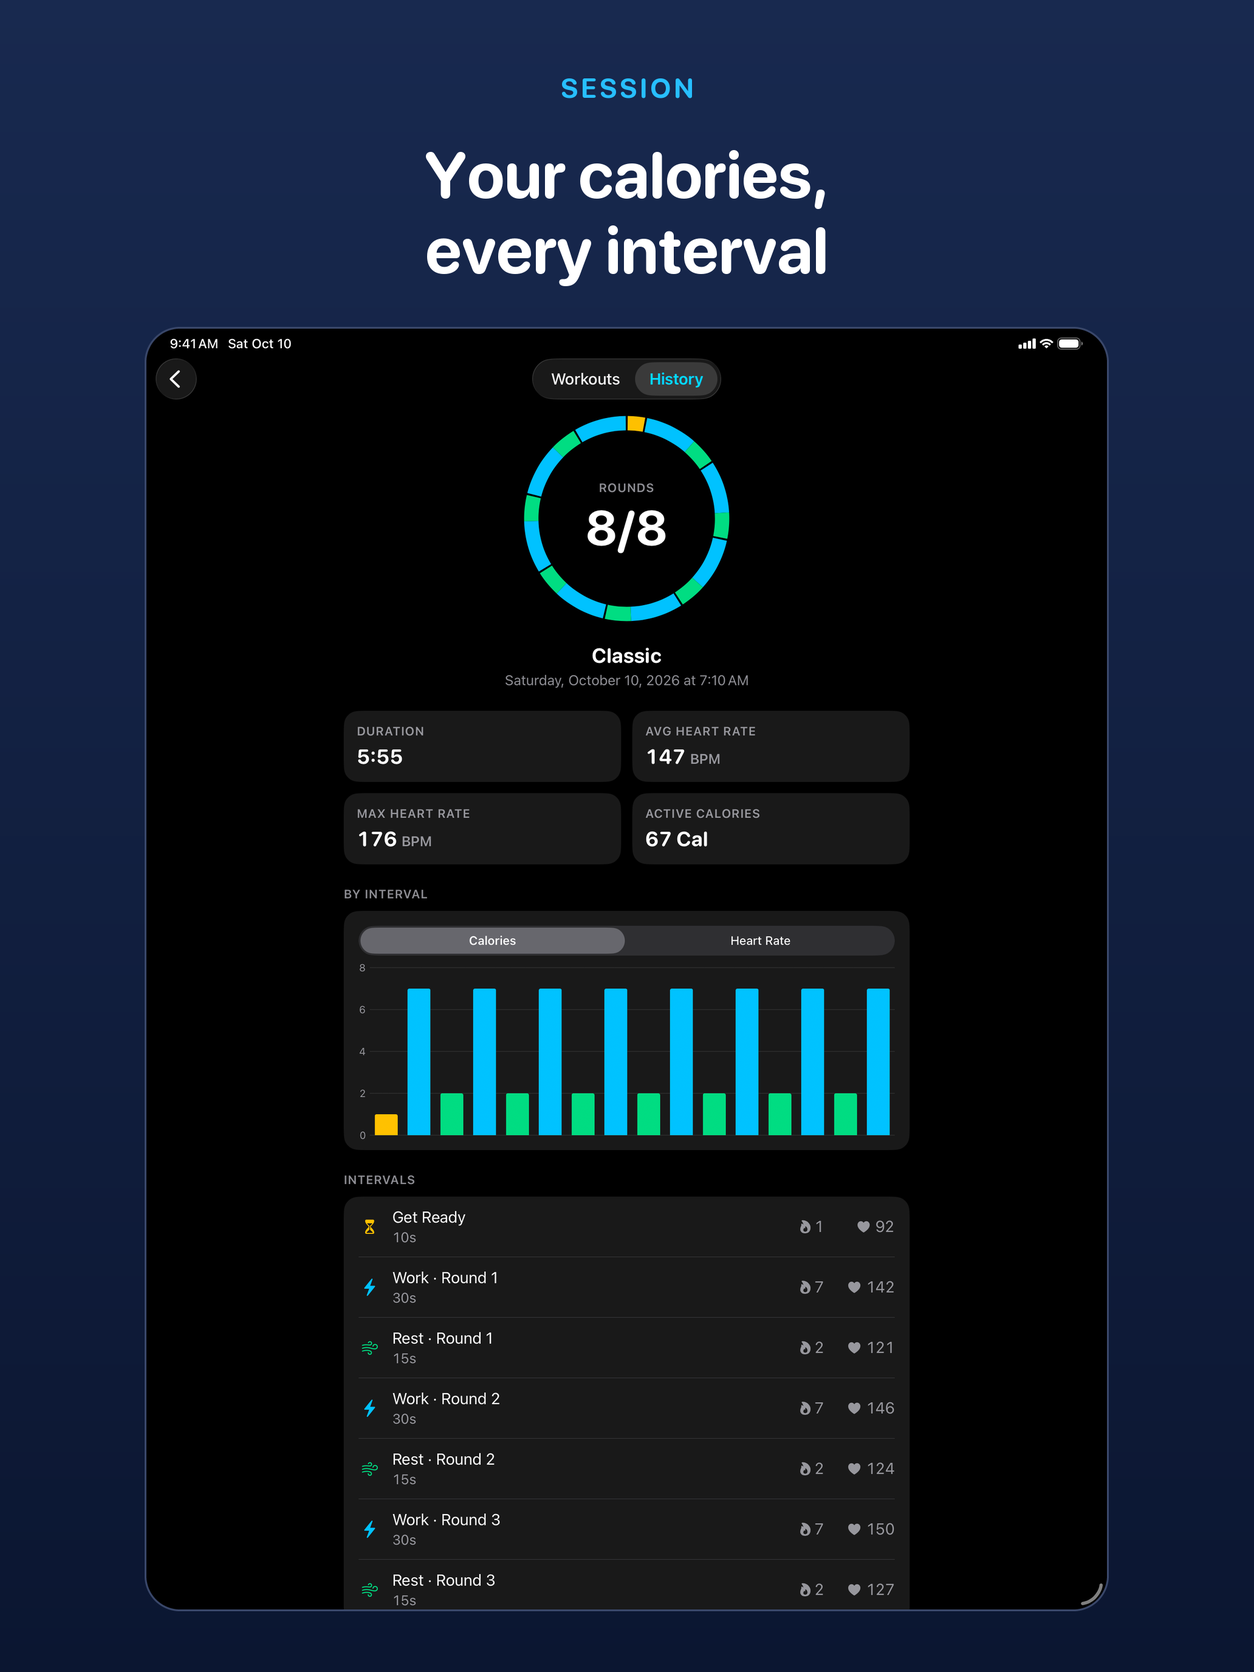
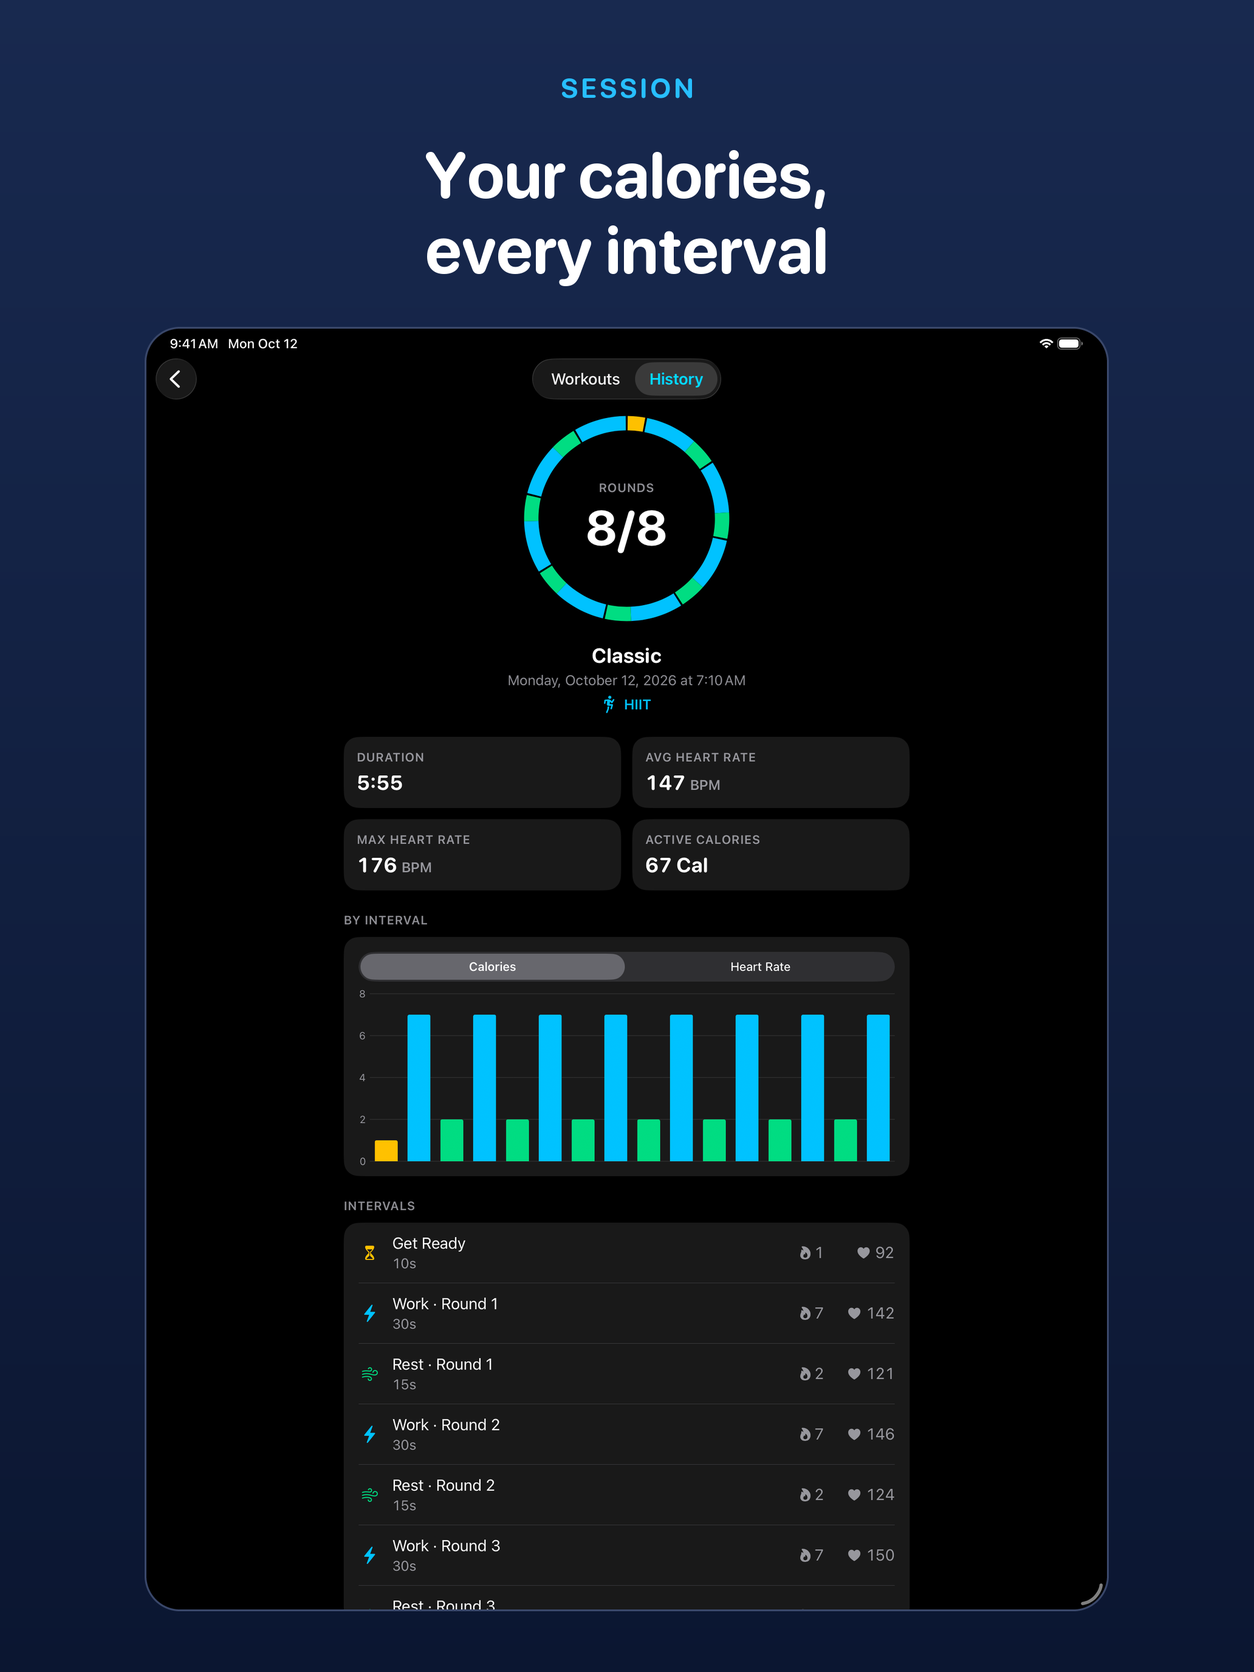
Ship 1.2 (4): review fixes, listing and screenshots
Two reviews of the 1.2 changes found real defects, all fixed and tested:

- Sync: when the iPhone filled in the activity or names on a write from
  the watch, the two copies carried the same stamp and never agreed, so
  both devices pushed the preset back and forth. On an exact tie, a copy
  without them now takes them from the one with.
- Watch: opening a duration editor snapped a value set on the iPhone's
  five-second wheels (2:05) to the crown's table (2:00) and saved it.
  The stored value now becomes a detent of its own.
- Cues: the dip outlasts the gap between countdown ticks (1.6 s), so the
  3-2-1 and the change are one dip, not four. A background task keeps
  the app alive until the music is back up, even locked with no workout
  session running.
- Names: saved once (Done, leaving the field or the screen) instead of
  on every keystroke, and capped at 10 characters so they fit the top
  of a 40mm ring. Long names may shrink in the watch widgets.

Release: version 1.2 (4) replaces 1.1 in review as the first release,
with Intervally Pro. Listing, reviewer notes (corrected: Pro hasn't been
reviewed yet), and the editor, session and Pro editor screenshots
updated. QA hooks label, unlabel and activity drive the new shots.

Changed region(s): [[0.2791, 0.4062, 0.7442, 0.625], [0.2791, 0.6562, 0.7442, 0.9688], [0.186, 0.1875, 0.2171, 0.2188]]

diff --git a/Phone/Editor/PhaseLabelEditor.swift b/Phone/Editor/PhaseLabelEditor.swift
@@ -6,14 +6,17 @@
 import SwiftUI
 
 /// Renames one phase of a preset and gives it a figure: "Run" with a runner for Work. Pushed
-/// inside the phase's picker sheet. Every change is saved as it is made; the phase's own name
-/// and figure put it back.
+/// inside the phase's picker sheet. A figure is saved when it is tapped; the name when it is
+/// done (Done, leaving the field, or leaving the screen), so a rename is one edit to sync, as
+/// the preset's own name is. The phase's own name and figure put it back.
 struct PhaseLabelEditor: View {
     let kind: IntervalPhase.Kind
     let onChange: (PhaseLabel?) -> Void
 
     @State private var name: String
     @State private var symbol: PhaseSymbol
+    /// What was last saved, so leaving the field or the screen without a change saves nothing.
+    @State private var saved: PhaseLabel
     @FocusState private var nameFocused: Bool
     @Environment(\.palette) private var palette
 
@@ -23,6 +26,7 @@ struct PhaseLabelEditor: View {
         // An empty field shows the phase's own name as its placeholder.
         _name = State(initialValue: label.name == kind.title ? "" : label.name)
         _symbol = State(initialValue: label.symbol)
+        _saved = State(initialValue: label)
     }
 
     private var isCustom: Bool {
@@ -46,7 +50,10 @@ struct PhaseLabelEditor: View {
                             if new.count > PhaseLabel.maxNameLength {
                                 name = String(new.prefix(PhaseLabel.maxNameLength))
                             }
-                            save()
+                        }
+                        .onSubmit(save)
+                        .onChange(of: nameFocused) { _, focused in
+                            if !focused { save() }
                         }
                     Text("What the run screen, the Lock Screen and the voice coach call it.")
                         .font(.footnote)
@@ -80,6 +87,7 @@ struct PhaseLabelEditor: View {
             .padding(20)
         }
         .scrollDismissesKeyboard(.interactively)
+        .onDisappear(perform: save)
         .navigationTitle("Name & Icon")
         .navigationBarTitleDisplayMode(.inline)
     }
@@ -106,7 +114,10 @@ struct PhaseLabelEditor: View {
     }
 
     private func save() {
-        onChange(PhaseLabel(name: PhaseLabel.cleaned(name) ?? kind.title, symbol: symbol))
+        let label = PhaseLabel(name: PhaseLabel.cleaned(name) ?? kind.title, symbol: symbol)
+        guard label != saved else { return }
+        saved = label
+        onChange(label)
     }
 }
 

diff --git a/Phone/Run/CueAudio.swift b/Phone/Run/CueAudio.swift
@@ -71,9 +71,14 @@ final class CueAudio: NSObject, CueOutput {
     private var isDucking = false
     private var duckUntil = Date.distantPast
     private var restoreTask: Task<Void, Never>?
-    /// How long the music stays down after a cue ends: enough to carry the 3-2-1 into the
-    /// change and the word after it as one dip.
-    static let duckTail: TimeInterval = 0.8
+    /// Keeps the app running while the music is down, so it always comes back up: with the
+    /// phone locked and no workout session (Health declined, or a run that just finished),
+    /// iOS would otherwise suspend the app once the cue stops, music still lowered.
+    private var duckBackgroundTask = UIBackgroundTaskIdentifier.invalid
+    /// How long the music stays down after a cue ends: longer than the widest gap between
+    /// the 3-2-1 ticks (a second apart, up to 1.5 s as the run's half-second ticker finds
+    /// them), so the countdown, the change and the word after it are one dip, not four.
+    static let duckTail: TimeInterval = 1.6
 
     override init() {
         super.init()
@@ -141,6 +146,7 @@ final class CueAudio: NSObject, CueOutput {
         restoreTask?.cancel()
         restoreTask = nil
         isDucking = false
+        endDuckBackgroundTask()
         phrases.removeAll()
         guard isActive else { return }
         do {
@@ -214,6 +220,14 @@ final class CueAudio: NSObject, CueOutput {
             try session.setActive(true)
             isActive = true
             isDucking = true
+            if duckBackgroundTask == .invalid {
+                duckBackgroundTask = UIApplication.shared.beginBackgroundTask(withName: "Restore other audio") { [weak self] in
+                    MainActor.assumeIsolated {
+                        self?.stopDucking()
+                        self?.endDuckBackgroundTask()
+                    }
+                }
+            }
         } catch {
             log.notice("could not lower other audio: \(error.localizedDescription, privacy: .public)")
             setCategory(ducking: false)
@@ -249,6 +263,13 @@ final class CueAudio: NSObject, CueOutput {
         isActive = false
         setCategory(ducking: false)
         hold()
+        endDuckBackgroundTask()
+    }
+
+    private func endDuckBackgroundTask() {
+        guard duckBackgroundTask != .invalid else { return }
+        UIApplication.shared.endBackgroundTask(duckBackgroundTask)
+        duckBackgroundTask = .invalid
     }
 
     /// Takes the audio for the run, once: from then on the volume buttons set the cues'

diff --git a/Sources/Views/ValueEditorView.swift b/Sources/Views/ValueEditorView.swift
@@ -37,8 +37,11 @@ struct ValueEditorView: View {
     @Environment(\.accessibilityReduceMotion) private var reduceMotion
     /// Index into `values`, not the value itself: that is what makes the steps non-linear.
     @State private var crown: Double = 0
+    /// A stored value the table doesn't hold, such as 2:05 set on the iPhone's wheels, kept as
+    /// a detent of its own while the editor is open: opening it must not change the preset.
+    @State private var kept: Int?
 
-    var values: [Int] { valueTable ?? Self.values(in: range, step: step) }
+    var values: [Int] { Self.table(valueTable ?? Self.values(in: range, step: step), keeping: kept) }
 
     var body: some View {
         GeometryReader { proxy in
@@ -76,11 +79,13 @@ struct ValueEditorView: View {
             value = next
         }
         .onChange(of: value) { _, new in
+            keep(new)
             if let position = crownPosition(after: new, from: crown) { crown = position }
         }
         .onAppear {
-            // A stored value that is not on the table (say 7s from an older build) would
-            // otherwise jump to a neighbour on the first click of the crown.
+            // A stored value off the table (2:05 from the iPhone, 7s from an older build)
+            // becomes a detent, so the first click of the crown moves to its neighbour.
+            keep(value)
             let index = nearestIndex(to: value)
             crown = Double(index)
             if values[index] != value { value = values[index] }
@@ -150,6 +155,19 @@ struct ValueEditorView: View {
     private func nearestIndex(to target: Int) -> Int {
         let table = values
         return table.indices.min { abs(table[$0] - target) < abs(table[$1] - target) } ?? 0
+    }
+
+    /// Keeps an in-range value the table lacks; an out-of-range one is still snapped onto it.
+    private func keep(_ value: Int) {
+        let table = values
+        guard value != kept, !table.contains(value), (table.first ?? value)...(table.last ?? value) ~= value else { return }
+        kept = value
+    }
+
+    /// `table` with `kept` in its place among the detents.
+    nonisolated static func table(_ table: [Int], keeping kept: Int?) -> [Int] {
+        guard let kept, !table.contains(kept) else { return table }
+        return (table + [kept]).sorted()
     }
 
     /// Every value the crown can land on. The table lives in `ValueSteps`, shared with the

diff --git a/Phone/App/QAEdit.swift b/Phone/App/QAEdit.swift
@@ -22,6 +22,12 @@ enum QAEdit: Equatable {
     /// SwiftUI's `onMove` offsets: the preset at `from` goes before the one now at `to`.
     case move(from: Int, to: Int)
     case add(String)
+    /// `label 0 work run Run`: the phase's name and figure, as Name & Icon sets them.
+    case label(Int, IntervalPhase.Kind, PhaseSymbol, String)
+    /// `unlabel 0`: every phase back to its own name and figure.
+    case unlabel(Int)
+    /// `activity 0 outdoorRun`: what Health records the preset as.
+    case activity(Int, WorkoutActivity)
 
     /// The edits in `spec`, separated by semicolons, e.g. `rename 0 Sprint; work 0 45`. Nil
     /// if any one is unreadable: a typo must not leave half the edits made.
@@ -45,6 +51,13 @@ enum QAEdit: Equatable {
         case ("delete", let index?) where words.count == 2: return .delete(index)
         case ("rename", let index?) where !rest.isEmpty: return .rename(index, rest)
         case ("add", _) where words.count > 1: return .add(words.dropFirst().joined(separator: " "))
+        case ("unlabel", let index?) where words.count == 2: return .unlabel(index)
+        case ("activity", let index?) where words.count == 3:
+            return WorkoutActivity(rawValue: words[2]).map { .activity(index, $0) }
+        case ("label", let index?) where words.count >= 5:
+            guard let kind = IntervalPhase.Kind(rawValue: words[2]),
+                  let symbol = PhaseSymbol(rawValue: words[3]) else { return nil }
+            return .label(index, kind, symbol, words.dropFirst(4).joined(separator: " "))
         default: break
         }
         guard words.count == 3, let first = numbers[0], let second = numbers[1] else { return nil }
@@ -88,6 +101,12 @@ enum QAEdit: Equatable {
             store.move(fromOffsets: [from], toOffset: to)
         case .add(let name):
             store.add(IntervalWorkout(name: name))
+        case .label(let index, let kind, let symbol, let name):
+            if let workout = preset(index) { store.setLabel(workout.id, kind: kind, to: PhaseLabel(name: name, symbol: symbol)) }
+        case .unlabel(let index):
+            edit(index) { $0.phaseLabels = [:] }
+        case .activity(let index, let activity):
+            if let workout = preset(index) { store.setActivity(workout.id, to: activity) }
         }
     }
 }

diff --git a/Tests/PhaseLabelTests.swift b/Tests/PhaseLabelTests.swift
@@ -24,7 +24,8 @@ struct PhaseLabelTests {
     @Test("Names are trimmed and cut to fit; an empty one keeps the phase's own")
     func cleaning() {
         #expect(PhaseLabel.cleaned("  Run  ") == "Run")
-        #expect(PhaseLabel.cleaned("Sprint as hard as you can") == "Sprint as ha")
+        #expect(PhaseLabel.cleaned("Sprint as hard as you can") == "Sprint as", "Cut, then trimmed again")
+        #expect(PhaseLabel.cleaned("Recovery Jog") == "Recovery J", "Ten letters: the top of a 40mm ring")
         #expect(PhaseLabel.cleaned("   ") == nil)
     }
 
@@ -96,6 +97,27 @@ struct PhaseLabelTests {
         reset.setLabel(nil, for: .work)
         let cleared = record(mine, 100).merged(with: record(reset, 200))
         #expect(!cleared.workout.hasCustomLabel(for: .work), "An emptied set is a reset, not a version without labels")
+    }
+
+    /// The iPhone named a phase at 5 while the watch, out of range, changed rounds at 6. The
+    /// iPhone's merge keeps its name on the watch's write at 6; the watch, holding that write
+    /// without it, gets it back at the same stamp. Both must settle on the same record, or
+    /// each keeps its own on the tie and they push it back and forth for good.
+    @Test("At the same stamp, a copy without the activity or names takes them from one with")
+    func tieConverges() {
+        let id = UUID()
+        var named = IntervalWorkout(id: id, name: "Hills", rounds: 10)
+        named.setLabel(PhaseLabel(name: "Climb", symbol: .run), for: .work)
+        named.activity = .outdoorRun
+        var bare = named
+        bare.phaseLabels = nil
+        bare.activity = nil
+        let stamp = SyncStamp(millis: 6, device: "watch")
+        let phone = PresetRecord(id: id, workout: named, deleted: false, order: 0, stamp: stamp)
+        let watch = PresetRecord(id: id, workout: bare, deleted: false, order: 0, stamp: stamp)
+        #expect(phone.merged(with: watch) == watch.merged(with: phone))
+        #expect(watch.merged(with: phone).workout == named)
+        #expect(watch.merged(with: watch) == watch, "A tie with itself changes nothing")
     }
 
     @Test("Each interval saved to Health keeps its name and figure, and the workout says outdoors outright")

diff --git a/PhoneTests/QAEditTests.swift b/PhoneTests/QAEditTests.swift
@@ -21,11 +21,15 @@ struct QAEditTests {
             .work(1, 45), .rest(1, 20), .rounds(1, 12), .prepare(1, 5),
         ])
         #expect(QAEdit.parse("delete 2; move 2 0; add Ladder") == [.delete(2), .move(from: 2, to: 0), .add("Ladder")])
+        #expect(QAEdit.parse("label 0 work run Hill Run; unlabel 1; activity 0 outdoorRun") == [
+            .label(0, .work, .run, "Hill Run"), .unlabel(1), .activity(0, .outdoorRun),
+        ])
     }
 
     @Test("Any unreadable command drops them all", arguments: [
         "", ";", "select", "select x", "select 1 2", "rename 0", "rename x Name",
         "work 0", "work 0 4 5", "move 1", "jump 1 2", "add", "select 1; delete",
+        "label 0 work run", "label 0 sprint run Go", "label 0 work unicycle Go", "unlabel", "activity 0 skydiving",
     ])
     func rejects(_ spec: String) {
         #expect(QAEdit.parse(spec) == nil)
@@ -45,6 +49,18 @@ struct QAEditTests {
         // Adding selects the new preset, as on the watch.
         #expect(store.selected.name == "Ladder")
         #expect(reports.value == edits.count)
+    }
+
+    @Test("Names, figures and the activity are set as the editor sets them, and put back")
+    func labelsAndActivity() throws {
+        let store = WorkoutStore(defaults: makeTestDefaults())
+        try #require(QAEdit.parse("label 0 work run Run; label 0 rest walk Walk; activity 0 outdoorRun")).forEach { $0.apply(to: store) }
+        let workout = store.workouts[0]
+        #expect(workout.label(for: .work) == PhaseLabel(name: "Run", symbol: .run))
+        #expect(workout.label(for: .rest) == PhaseLabel(name: "Walk", symbol: .walk))
+        #expect(workout.activity == .outdoorRun)
+        QAEdit.unlabel(0).apply(to: store)
+        #expect(!store.workouts[0].hasCustomLabel(for: .work) && !store.workouts[0].hasCustomLabel(for: .rest))
     }
 
     @Test("An edit naming a preset that isn't there does nothing")

diff --git a/Tests/MetadataTests.swift b/Tests/MetadataTests.swift
@@ -56,7 +56,7 @@ struct MetadataTests {
         "## Promotional text (170)",
         "## Description (4000)",
         "## Keywords (100)",
-        "## What's New in 1.1 (4000)",
+        "## What's New in 1.2 (4000)",
         "### Notes for the reviewer (4000)",
         "Display Name (30)",
         "Description (45)",
@@ -181,7 +181,8 @@ struct MetadataTests {
 
     @Test("The purchase goes in with the iOS version, and its notes start on the iPhone")
     func purchaseRidesWithTheIOSVersion() throws {
-        #expect(try Self.listing().contains("Intervally Pro was reviewed with version 1.0; nothing to add for 1.1."))
+        #expect(try Self.listing().contains("**In-App Purchases:** add Intervally Pro to the submission."))
+        #expect(try Self.field("### Notes for the reviewer (4000)").text.contains("is submitted with this version"))
         let purchase = try Self.field("### Review notes (4000)").text
         let iPhone = try #require(purchase.range(of: "ON IPHONE (the main way to buy; no Apple Watch needed)"))
         let watch = try #require(purchase.range(of: "ON APPLE WATCH"))

diff --git a/Tests/PresetEditingTests.swift b/Tests/PresetEditingTests.swift
@@ -30,6 +30,18 @@ struct CrownValueTableTests {
         #expect(ValueEditorView.values(in: IntervalWorkout.prepareRange, step: 5).first == 0)
     }
 
+    @Test("A stored value off the table becomes a detent of its own, so opening the editor keeps it")
+    func offTableValueKept() {
+        let table = ValueEditorView.values(in: IntervalWorkout.workRange, step: 5)
+        #expect(!table.contains(125), "2:05, set on the iPhone's wheels, is between the crown's 2:00 and 2:15")
+        let kept = ValueEditorView.table(table, keeping: 125)
+        #expect(kept.count == table.count + 1)
+        #expect(kept == kept.sorted())
+        #expect(kept[kept.firstIndex(of: 125)! - 1] == 120 && kept[kept.firstIndex(of: 125)! + 1] == 135)
+        #expect(ValueEditorView.table(table, keeping: 120) == table, "A value on the table adds nothing")
+        #expect(ValueEditorView.table(table, keeping: nil) == table)
+    }
+
     @Test("Rounds are one per detent")
     func rounds() {
         #expect(ValueEditorView.values(in: IntervalWorkout.roundsRange, step: 1) == Array(1...99))

diff --git a/Core/PhaseLabel.swift b/Core/PhaseLabel.swift
@@ -12,15 +12,16 @@ struct PhaseLabel: Codable, Equatable, Hashable, Sendable {
     var name: String
     var symbol: PhaseSymbol
 
-    /// Long enough for "Recovery" or "Sprint Hard", short enough for the watch's ring.
-    static let maxNameLength = 12
+    /// Long enough for "Recovery" or "Jump Rope", short enough for the top of the watch's
+    /// ring on a 40mm watch, where the word may shrink to `PhaseWord.smallestScale`.
+    static let maxNameLength = 10
 
     /// The name as it will be shown: trimmed, cut to `maxNameLength`, nil when nothing is
     /// left, which keeps the phase's own name.
     static func cleaned(_ name: String) -> String? {
         let trimmed = name.trimmingCharacters(in: .whitespacesAndNewlines)
         guard !trimmed.isEmpty else { return nil }
-        return String(trimmed.prefix(maxNameLength))
+        return String(trimmed.prefix(maxNameLength)).trimmingCharacters(in: .whitespaces)
     }
 }
 

diff --git a/Core/SyncDocument.swift b/Core/SyncDocument.swift
@@ -85,6 +85,13 @@ struct PresetRecord: Codable, Equatable, Sendable {
             if out.workout.phaseLabels == nil { out.workout.phaseLabels = workout.phaseLabels }
             out.deleted = other.deleted
             out.stamp = other.stamp
+        } else if other.stamp == stamp {
+            // The same write, one copy filled in by the merge above and one not: the device
+            // that kept the activity or labels sends that write back at the same stamp.
+            // Without filling the gap here each side would keep its own copy on the tie,
+            // never agree, and push the preset back and forth for good.
+            if out.workout.activity == nil { out.workout.activity = other.workout.activity }
+            if out.workout.phaseLabels == nil { out.workout.phaseLabels = other.workout.phaseLabels }
         }
         if other.orderStamp > orderStamp {
             out.order = other.order

diff --git a/Tests/PhaseWordTests.swift b/Tests/PhaseWordTests.swift
@@ -48,6 +48,17 @@ struct PhaseWordTests {
         }
     }
 
+    /// A preset's own names, at the longest a name can be (`PhaseLabel.maxNameLength`).
+    @Test("On a 40mm, a ten-letter name of the preset's own fits whole within the shrink floor")
+    func longestNamesFitOn40mm() throws {
+        let line = line(on: Self.screen40)
+        for word in ["Kettlebell", "Wall Balls", "Recovery J", "Burpee Box"] {
+            #expect(word.count <= PhaseLabel.maxNameLength)
+            let untracked = try width(word, PhaseWord.untracked, textSize: .large)
+            #expect(untracked * PhaseWord.smallestScale <= line, "\(word): \(untracked) × \(PhaseWord.smallestScale) vs \(line)")
+        }
+    }
+
     @Test("Short words keep the tracked style and full size on every watch")
     func shortWordsKeepTheirStyle() throws {
         for screen in [Self.screen40, CGSize(width: 208, height: 248)] {

diff --git a/PhoneTests/ShipAssetsTests.swift b/PhoneTests/ShipAssetsTests.swift
@@ -72,7 +72,7 @@ struct ShipAssetsTests {
         #expect(iPad == iPhone)
         let compose = try String(contentsOf: Self.screenshots.appendingPathComponent("compose.py"), encoding: .utf8)
         #expect(compose.contains("'1-run': ('TRAIN ON IPAD'"))
-        #expect(compose.contains("'4-editor': ('EDITOR', ['Build a workout'"), "No 'Start it anywhere' on a device with no watch")
+        #expect(!compose.contains("anywhere"), "No 'Start it anywhere' on a device with no watch")
     }
 
     @Test("The In-App Purchase review screenshot is a 6.9-inch capture with no alpha")
